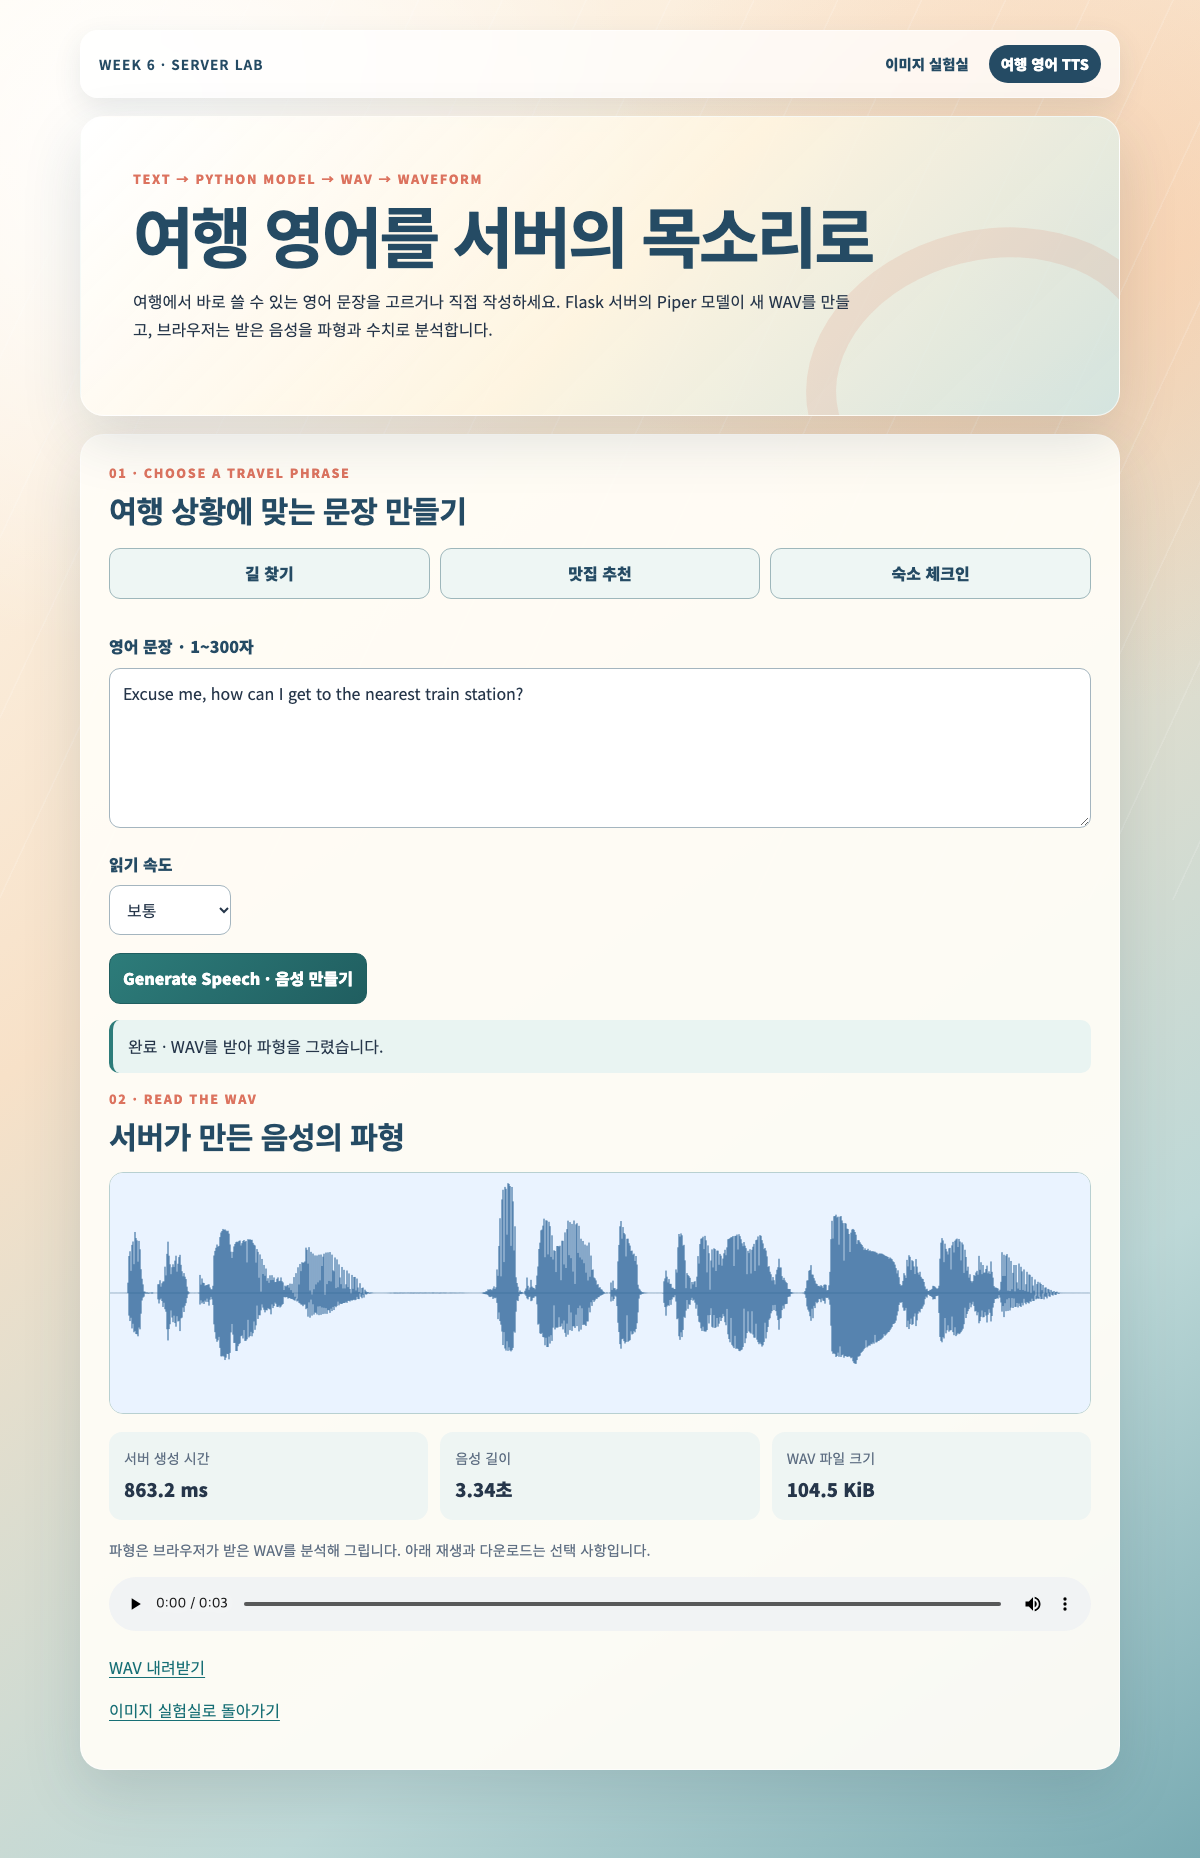
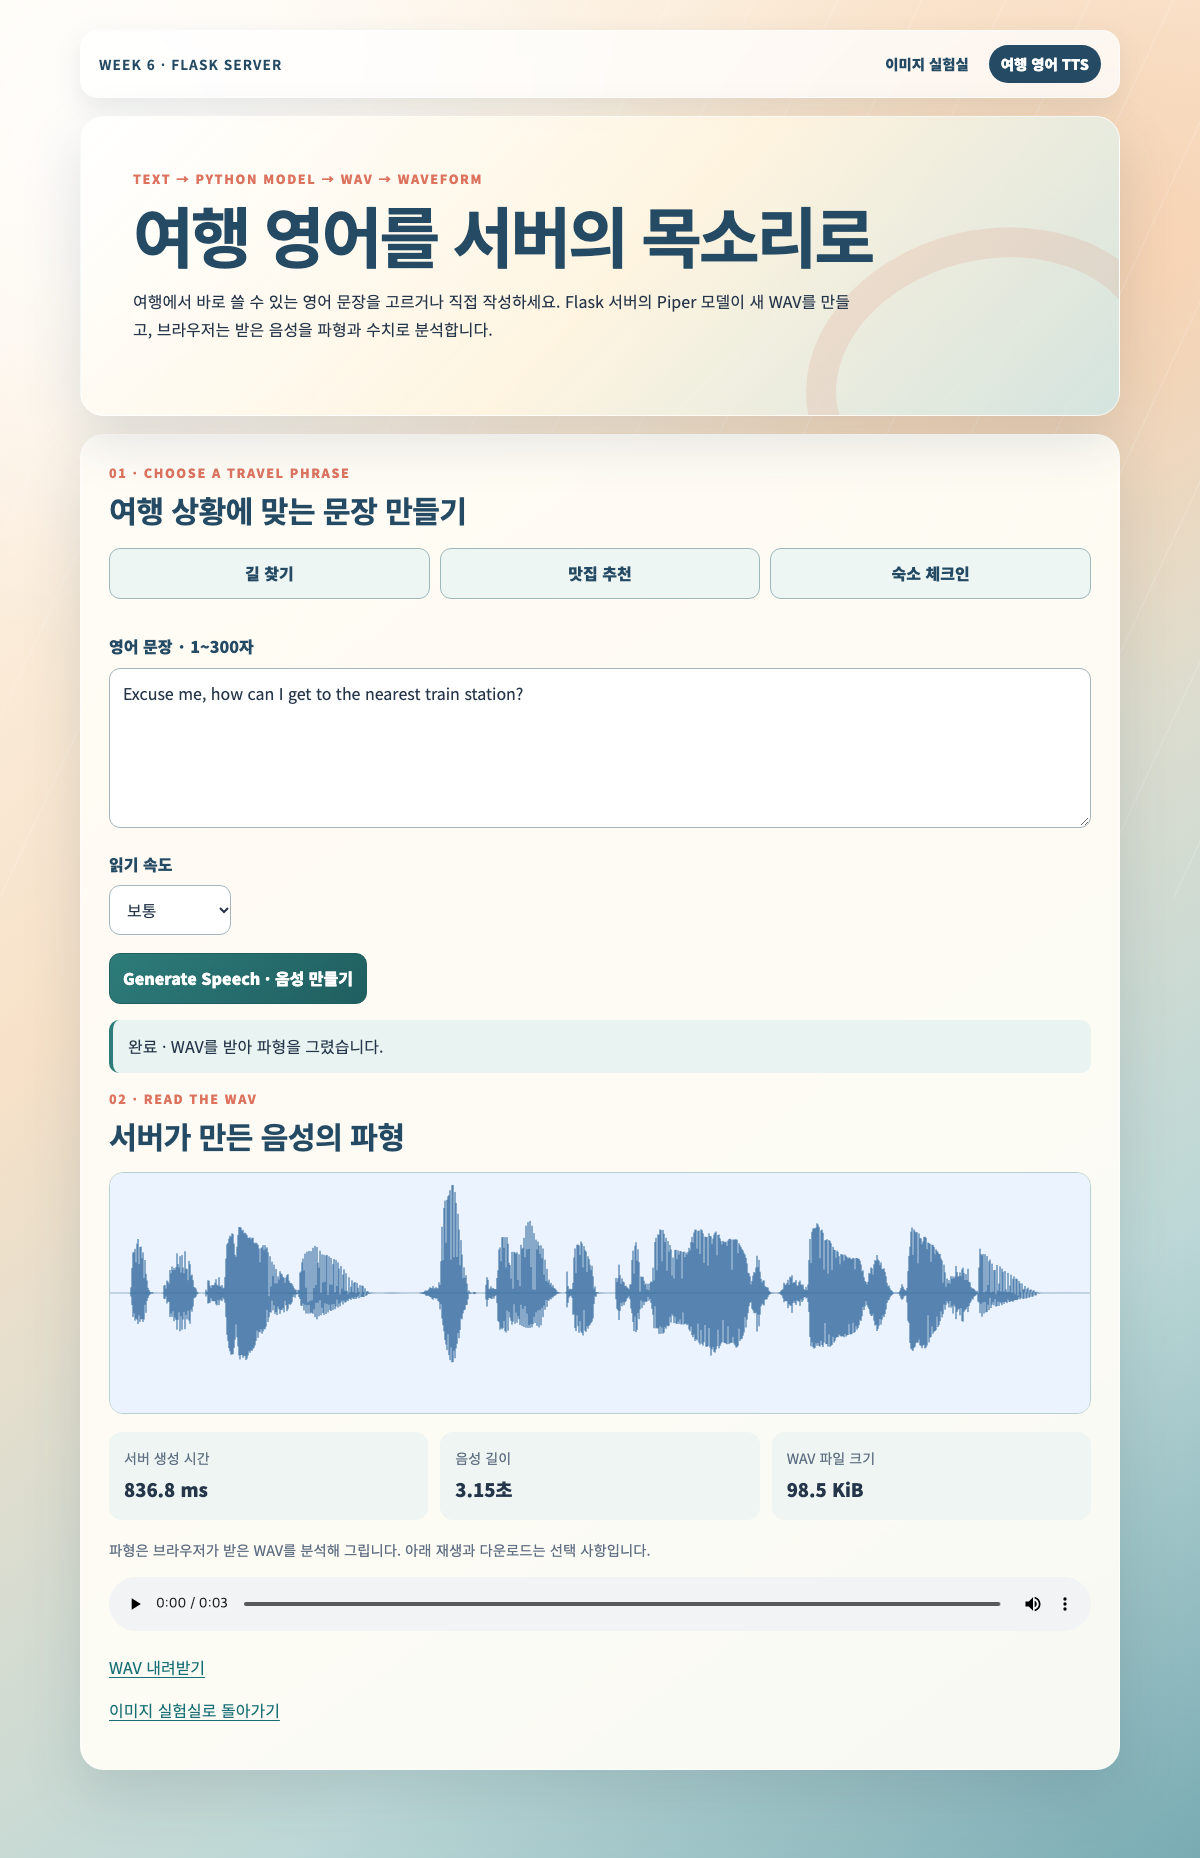
docs: finalize week 6 deployment verification

diff --git a/README.md b/README.md
@@ -1,6 +1,6 @@
 # Campus Hotspots
 
-가톨릭대학교 성심교정에서 공부와 휴식 사이에 들르기 좋은 세 장소를 소개하며, HTML에서 CSS와 JavaScript까지 주차별로 발전시킨 웹프로그래밍 실습 프로젝트입니다.
+가톨릭대학교 성심교정의 장소 소개에서 시작해 HTML·CSS·JavaScript, 데이터 시각화, 브라우저 저장소, Flask 서버의 이미지·음성 처리까지 주차별로 확장한 웹프로그래밍 실습 프로젝트입니다.
 
 ### 프로젝트 주소
 
@@ -10,7 +10,7 @@
 - 통계 페이지: <https://woo6629058.github.io/campus-hotspots/week4/statistics.html>
 - 게임 페이지: <https://woo6629058.github.io/campus-hotspots/week4/game.html>
 - 여행 취향 밸런스 게임: <https://woo6629058.github.io/campus-hotspots/week5/>
-
+- 이미지 처리 배포 주소: <https://campus-hotspots-week6.onrender.com/>
 ## 2주차: HTML과 페이지 연결
 
 ### 소개 장소
@@ -86,12 +86,12 @@ campus-hotspots/
 - 통계 페이지: <https://woo6629058.github.io/campus-hotspots/week4/statistics.html>
 - 게임 페이지: <https://woo6629058.github.io/campus-hotspots/week4/game.html>
 
-### 실습 1 - 네 페이지를 하나의 탐험 화면으로
+### 실습 1 · 네 페이지를 하나의 탐험 화면으로
 - 내가 수정한 부분: 2주차에 고른 카페 하랑, 하늘동산, 베리타스관 중앙도서관의 사진·설명·추천 활동을 한 화면의 세 `section`에 모았습니다. 장소 선택 버튼은 JavaScript에서 만들고, 첫 접속에는 카페 하랑이 선택되도록 했습니다.
 - 버튼 클릭 → 내용 변경 → 지도 변경의 흐름: `app.js`의 `selectPlace()`가 선택하지 않은 `section`에는 `hidden`을 적용하고, 버튼의 `aria-pressed`를 바꾼 뒤 Google 지도 `iframe`의 `src`와 제목, 새 창 링크를 같은 장소 정보로 교체합니다.
 - 휴대전화에서 확인한 결과: 화면 너비 390px에서 버튼·설명·사진·지도가 한 열로 표시되고 가로 넘침 없이 장소 세 곳을 전환할 수 있습니다.
 
-### 실습 2 - 내가 발견한 데이터를 두 가지 시각화로
+### 실습 2 · 내가 발견한 데이터를 두 가지 시각화로
 - 데이터 출처 URL / 내려받은 날짜: [공공데이터포털 · 전국도서관표준데이터](https://www.data.go.kr/data/15013109/standard.do) / 2026년 9월 21일
 - 데이터 선택 이유 / 대상·기간·단위: 공부 장소와 연결되는 공공도서관의 지역별 차이를 살펴보기 위해 선택했습니다. 서울특별시 204개관, 인천광역시 119개관, 경기도 307개관으로 총 630개관이며 기관별 데이터기준일자는 CSV에 함께 보존했습니다. 그래프 단위는 개관과 %입니다.
 - 그래프 1: “공공도서관이 많은 시군구는 어디인가?” / `시도명`, `시군구명`, `도서관명` / 지역 이름이 길고 여러 시군구를 비교하기 쉬운 가로 막대그래프 / 서울·인천·경기 버튼을 누르면 선택 지역의 모든 시군구 집계와 해석이 함께 바뀝니다.
@@ -102,7 +102,7 @@ campus-hotspots/
 - 빈 데이터·잘못된 CSV를 넣었을 때 결과: 파일 요청 실패, 필수 열 누락, CSV 해석 오류, 선택 지역에 분석 가능한 행이 없는 경우 그래프 대신 상태 영역에 원인과 확인할 항목을 표시합니다.
 - LLM 활용: 공개 표준데이터의 지역 필터링, CSV 집계·지역 선택·탭 전환·오류 처리를 구성하는 데 도움을 받았습니다. 대표 질문은 “`시도명`, `시군구명`, `평일운영종료시각` 열을 사용해 서울·인천·경기의 시군구별 도서관 수와 21시 이후 운영 비율을 계산하고, 결측치를 0으로 만들지 않는 Chart.js 화면을 작성해 줘”였습니다. 원본 630개 행과 지역별 집계값을 직접 대조하고, 지역·탭 전환과 오류 메시지를 브라우저에서 검증했습니다.
 
-### 실습 3 - 상상한 게임을 LLM과 만들기
+### 실습 3 · 상상한 게임을 LLM과 만들기
 - 게임 이름 / 아이디어 / 조작과 규칙: **별자리 산책로 미니 게임**. 밤의 캠퍼스에 흩어진 별을 1번부터 순서대로 선택해 빛나는 길을 완성하는 30초 게임입니다. 별 하나를 연결하면 +100점, 별자리를 완성하면 단계별 보너스를 받습니다. 순서를 틀리면 기회가 하나 줄고, 기회 세 개를 잃거나 30초가 지나면 끝납니다. 마우스와 터치로 조작합니다.
 - LLM 활용: “HTML Canvas와 JavaScript로 밤의 캠퍼스에 흩어진 별을 번호 순서대로 연결하는 게임을 만들어 줘. 마우스·터치를 지원하고 점수·시간·기회·단계, 종료 결과와 재시작을 보여 줘. 단계가 올라갈수록 연결할 별을 늘리고 재시작할 때 이전 애니메이션을 정리해 줘.”
 - 추가 수정 요청과 개선한 점: 별을 단순히 누르는 데서 끝나지 않도록 연결된 별 사이에 빛나는 선을 그리고, 다음 별에는 맥동 효과와 마우스를 따라가는 점선을 표시했습니다. 단계를 완성하면 별 개수가 하나씩 늘어나고 보너스 점수를 받도록 개선했습니다.
@@ -130,7 +130,7 @@ week4/
 ```
 
 ## 5주차: 브라우저 상태
-### 실습 - 나만의 취향 밸런스 게임
+### 실습 1 · 나만의 취향 밸런스 게임
 - 게임 주소: <https://woo6629058.github.io/campus-hotspots/week5/>
 - 게임 이름과 소개: **같이 여행 가도 괜찮을까?** — 여덟 번의 선택을 통해 자신의 여행 성향을 알아보고, 같은 기기에서 참여한 친구와 답을 비교하는 여행 취향 밸런스 게임입니다.
 - 게임의 대상과 주제를 선택한 이유: 친구와 여행을 준비하는 대학생을 대상으로 했습니다. 일정·숙소·식사·예산처럼 실제 여행에서 의견이 갈리는 상황을 미리 비교하고 대화할 수 있어 여행을 주제로 선택했습니다.
@@ -169,13 +169,13 @@ week5/
 
 ## 6주차: HTTP와 Flask 시작
 
-- 이미지 처리 배포 주소: Render 배포 후 기록 예정
+- 이미지 처리 배포 주소: <https://campus-hotspots-week6.onrender.com/>
 - 이미지 처리 로컬 주소: <http://127.0.0.1:5000/>
 - 서버 TTS 로컬 주소: <http://127.0.0.1:5000/tts>
 
 ### 실습 1 · 이미지 처리
 
-- 휴대폰 확인 화면: 로컬 390px 화면에서 원본·윤곽선 결과와 시간이 세로 한 열로 표시되고 가로 넘침이 없음을 확인했습니다. 배포 후에도 휴대전화에서 같은 동작을 다시 확인할 예정입니다. [확인 화면](week6/screenshots/image-result-mobile.png)
+- 휴대폰 확인 화면: Render 배포 주소를 휴대전화에서 열어 사진을 전송하고 원본·윤곽선 결과와 처리 시간이 세로 한 열로 표시되며 가로 넘침이 없음을 확인했습니다. [확인 화면](week6/screenshots/image-result-mobile.png)
 - 내가 수정한 내용: 제공 예제의 세 처리 방법과 form/fetch 흐름을 유지했습니다. 원본·서버 결과·처리 시간을 단계별 카드로 구분하고 데스크톱과 모바일에서 한눈에 비교할 수 있도록 반응형 디자인을 적용했습니다.
 - 브라우저가 보내는 값 / 서버가 돌려주는 값: 브라우저는 `FormData`에 JPEG/PNG 파일, `operation`, Blur용 `kernel`을 담아 `POST /api/process`로 보냅니다. 서버는 입력을 검사하고 OpenCV로 계산한 PNG를 반환하며 `X-Compute-Ms`, `X-Processing-Ms`, `X-Image-Size` 헤더에 측정값을 함께 보냅니다.
 - 세 처리 방법의 결과: Grayscale은 색을 명암으로 바꾸고, Gaussian Blur는 선택한 홀수 커널 범위의 주변 픽셀을 반영해 부드럽게 만들며, Edge Detection은 Canny 100·200 임계값으로 주요 경계를 표시합니다.
@@ -188,7 +188,7 @@ week5/
 
 ### 실습 2 · 서버 TTS
 
-- 실행 명령: `python -m flask --app tts_app run --debug --port 5000`
+- 로컬 실행 명령: `python -m flask --app tts_app run --debug --port 5000`
 - 사용한 모델 이름·언어·출처: 영어 `en_US-lessac-low` / [Piper 음성 모델 카드](https://huggingface.co/rhasspy/piper-voices/blob/main/en/en_US/lessac/low/MODEL_CARD)
 - 내가 정한 사용 상황과 추가한 요소: 해외여행에서 바로 쓸 영어 문장을 연습하는 상황을 정했습니다. 길 찾기·맛집 추천·숙소 체크인 예문 버튼을 누르면 입력란에 문장이 채워지고 읽기 속도도 선택할 수 있도록 추가했습니다.
 - 서로 다른 문장 두 개의 파형·길이 확인: 길 찾기 문장은 3.31초·103.5 KiB, 맛집 추천 문장은 3.10초·97.0 KiB로 생성되어 문장에 따라 길이와 WAV 크기가 달라지는 것을 확인했습니다.
@@ -199,7 +199,7 @@ week5/
 
 - 도움받은 작업과 대표 질문: 6주차 필수 조건을 확인하고 제공된 Flask/OpenCV/Piper 예제를 바탕으로 반응형 화면과 여행 영어 예문 선택 기능을 구현하는 데 도움을 받았습니다. 대표 질문은 “기존 이미지 처리 3개와 form/fetch 흐름은 유지해 반응형 화면을 정리하고, TTS에는 여행 영어 예문 선택 기능을 추가해 6주차 조건에 맞게 구현해 줘”였습니다.
 - 직접 수정한 부분: 이미지 실험실 화면, 여행 영어 사용 상황과 예문 세 개, 화면 문구와 디자인을 검토하고 수정했습니다.
-- 실행하여 확인한 내용: HTML·JavaScript·Python 정적 검사, 이미지 처리 세 종류와 오류 응답, Piper WAV 두 문장 생성, 파형·시간·길이·크기 표시, 390px 모바일 화면과 가로 넘침을 확인했습니다. Render 배포와 휴대전화 공개 URL 확인은 남아 있습니다.
+- 실행하여 확인한 내용: HTML·JavaScript·Python 정적 검사, 이미지 처리 세 종류와 오류 응답, Piper WAV 두 문장 생성, 파형·시간·길이·크기 표시를 확인했습니다. Render 공개 URL과 `/health`의 정상 응답, 휴대전화의 이미지 업로드·결과 표시와 가로 넘침 없음도 확인했습니다.
 
 ### 6주차 파일 구조
 

diff --git a/week6/README.md b/week6/README.md
@@ -15,6 +15,7 @@ python -m flask --app app run --debug --port 5000
 
 ### Render 설정
 
+- 배포 주소: <https://campus-hotspots-week6.onrender.com/>
 - Root Directory: `week6`
 - Build Command: `pip install -r requirements.txt`
 - Start Command: `gunicorn app:app --bind 0.0.0.0:$PORT --workers 1 --threads 2 --timeout 120`
@@ -37,13 +38,13 @@ python -m flask --app tts_app run --debug --port 5000
 
 필수 결과인 Canvas 파형, 서버 생성 시간, 음성 길이, WAV 크기를 표시합니다. 속도 선택, 음성 재생, WAV 다운로드도 함께 제공합니다.
 
-## 배포 전 확인
+## 확인 결과
 
-- 세 이미지 처리 방법과 Blur 커널 3·15·51을 확인합니다.
-- 파일 없음, 잘못된 처리 방법·커널, 지원하지 않는 파일, 크기 초과 응답을 확인합니다.
-- 서로 다른 영어 문장 두 개의 파형과 길이를 비교합니다.
-- 빈 문장, 300자 초과, 비영문 문장, 모델 없음 응답을 확인합니다.
-- 실제 측정값과 로컬 이미지·TTS 결과 화면은 최상위 README에 기록했습니다. Render URL과 공개 URL의 휴대전화 확인은 배포 후 추가합니다.
+- 세 이미지 처리 방법과 Blur 커널 3·15·51을 확인했습니다.
+- 파일 없음, 잘못된 처리 방법·커널, 지원하지 않는 파일, 크기 초과 응답을 확인했습니다.
+- 서로 다른 영어 문장 두 개의 파형과 길이를 비교했습니다.
+- 빈 문장, 300자 초과, 비영문 문장, 모델 없음 응답을 확인했습니다.
+- 실제 측정값과 이미지·TTS 결과 화면은 최상위 README에 기록했습니다. Render 공개 URL과 휴대전화의 이미지 업로드·결과 표시도 확인했습니다.
 
 ## 결과 화면
 
